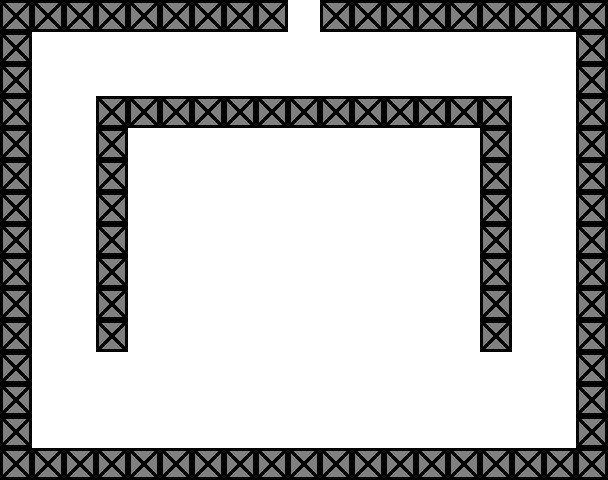
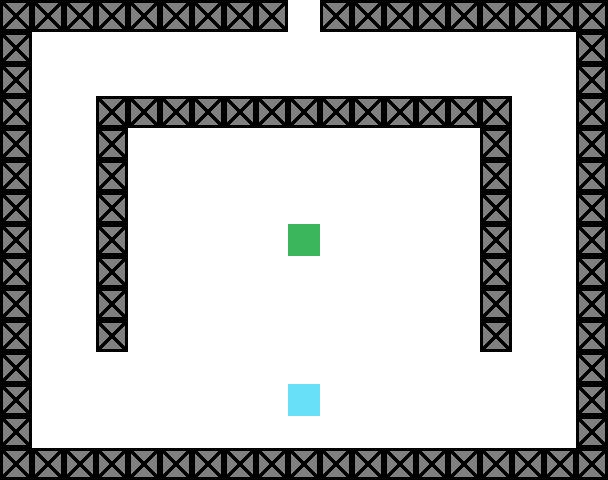
Friendly NPC complete.

Changed region(s): [[0.4688, 0.7812, 0.5312, 0.875], [0.4688, 0.4688, 0.5312, 0.5312]]

diff --git a/src/com/ectrpg/model/entity/Entity.java b/src/com/ectrpg/model/entity/Entity.java
@@ -150,8 +150,8 @@ public abstract class Entity implements Serializable, Useable, Regisiterable {
             changeView = -1;
             usingView = toward - 1;
         } else {
-            if (++changeView >= 15) {
-                changeView = -16;
+            if (++changeView >= 31) {
+                changeView = -32;
             }
             if (changeView >= 0) {
                 switch (toward) {
@@ -171,35 +171,80 @@ public abstract class Entity implements Serializable, Useable, Regisiterable {
         }
     }
 
+    public void changeTowardFromMoving() {
+        switch (wonderMoving) {
+            case GOTOWARD_UP: this.setToward(TOWARD_UP); break;
+            case GOTOWARD_DOWN: this.setToward(TOWARD_DOWN); break;
+            case GOTOWARD_LEFT: this.setToward(TOWARD_LEFT); break;
+            case GOTOWARD_RIGHT: this.setToward(TOWARD_RIGHT); break;
+            case GOTOWARD_UPLEFT:
+                if (this.getMoving() == GOTOWARD_UP) {
+                    this.setToward(TOWARD_UP);
+                } else if (this.getMoving() == GOTOWARD_LEFT) {
+                    this.setToward(TOWARD_LEFT);
+                } else if (this.getToward() != TOWARD_UP && this.getToward() != TOWARD_LEFT) {
+                    this.setToward(Resource.getRandom().nextInt(10) > 4 ? TOWARD_UP : TOWARD_LEFT);
+                }
+                break;
+            case GOTOWARD_UPRIGHT:
+                if (this.getMoving() == GOTOWARD_UP) {
+                    this.setToward(TOWARD_UP);
+                } else if (this.getMoving() == GOTOWARD_RIGHT) {
+                    this.setToward(TOWARD_RIGHT);
+                } else if (this.getToward() != TOWARD_UP && this.getToward() != TOWARD_RIGHT) {
+                    this.setToward(Resource.getRandom().nextInt(10) > 4 ? TOWARD_UP : TOWARD_RIGHT);
+                }
+                break;
+            case GOTOWARD_DOWNLEFT:
+                if (this.getMoving() == GOTOWARD_DOWN) {
+                    this.setToward(TOWARD_DOWN);
+                } else if (this.getMoving() == GOTOWARD_LEFT) {
+                    this.setToward(TOWARD_LEFT);
+                } else if (this.getToward() != TOWARD_DOWN && this.getToward() != TOWARD_LEFT) {
+                    this.setToward(Resource.getRandom().nextInt(10) > 4 ? TOWARD_DOWN : TOWARD_LEFT);
+                }
+                break;
+            case GOTOWARD_DOWNRIGHT:
+                if (this.getMoving() == GOTOWARD_DOWN) {
+                    this.setToward(TOWARD_DOWN);
+                } else if (this.getMoving() == GOTOWARD_RIGHT) {
+                    this.setToward(TOWARD_RIGHT);
+                } else if (this.getToward() != TOWARD_DOWN && this.getToward() != TOWARD_RIGHT) {
+                    this.setToward(Resource.getRandom().nextInt(10) > 4 ? TOWARD_DOWN : TOWARD_RIGHT);
+                }
+                break;
+        }
+    }
+
     public void move() {
         switch (moving) {
             case GOTOWARD_UP:
-                location.setY(location.getY() - 0.0625F);
+                location.setY(location.getY() - 0.03125F);
                 break;
             case GOTOWARD_DOWN:
-                location.setY(location.getY() + 0.0625F);
+                location.setY(location.getY() + 0.03125F);
                 break;
             case GOTOWARD_LEFT:
-                location.setX(location.getX() - 0.0625F);
+                location.setX(location.getX() - 0.03125F);
                 break;
             case GOTOWARD_RIGHT:
-                location.setX(location.getX() + 0.0625F);
+                location.setX(location.getX() + 0.03125F);
                 break;
             case GOTOWARD_UPLEFT:
-                location.setX(location.getX() - 0.0625F);
-                location.setY(location.getY() - 0.0625F);
+                location.setX(location.getX() - 0.03125F);
+                location.setY(location.getY() - 0.03125F);
                 break;
             case GOTOWARD_UPRIGHT:
-                location.setX(location.getX() + 0.0625F);
-                location.setY(location.getY() - 0.0625F);
+                location.setX(location.getX() + 0.03125F);
+                location.setY(location.getY() - 0.03125F);
                 break;
             case GOTOWARD_DOWNLEFT:
-                location.setX(location.getX() - 0.0625F);
-                location.setY(location.getY() + 0.0625F);
+                location.setX(location.getX() - 0.03125F);
+                location.setY(location.getY() + 0.03125F);
                 break;
             case GOTOWARD_DOWNRIGHT:
-                location.setX(location.getX() + 0.0625F);
-                location.setY(location.getY() + 0.0625F);
+                location.setX(location.getX() + 0.03125F);
+                location.setY(location.getY() + 0.03125F);
                 break;
         }
     }
@@ -403,6 +448,7 @@ public abstract class Entity implements Serializable, Useable, Regisiterable {
     }
 
     private LocationPair<Integer> getSideBlockForEntity(int side, int nextside) {
+        //TODO
         switch (side) {
             case SIDE_UP:
                 return new LocationPair<>((int) (location.getX() + nextside * 0.9375F), (int) (location.getY() - 1F));
@@ -509,6 +555,17 @@ public abstract class Entity implements Serializable, Useable, Regisiterable {
 
     public void onRefresh() {
         this.action();
+        refreshMove();
+        if (this.isPlayer()) {
+            refreshMove();
+        }
+    }
+
+    public boolean isLastMovingSucceed() {
+        return lastMovingSucceed;
+    }
+
+    private void refreshMove() {
         for (int i = (int)speed; i > 0; i--) {
             tryMove();
             this.changeViewFromMoving();
@@ -519,10 +576,6 @@ public abstract class Entity implements Serializable, Useable, Regisiterable {
             tryMove();
             this.changeViewFromMoving();
         }
-    }
-
-    public boolean isLastMovingSucceed() {
-        return lastMovingSucceed;
     }
 
     private void tryMove() {

diff --git a/src/com/ectrpg/main/maker/ProgressMaker.java b/src/com/ectrpg/main/maker/ProgressMaker.java
@@ -6,6 +6,7 @@ import com.ectrpg.db.Localization;
 import com.ectrpg.event.EventManager;
 import com.ectrpg.model.LocationPair;
 import com.ectrpg.model.entity.Entity;
+import com.ectrpg.model.entity.FriendlyNPC;
 import com.ectrpg.model.fight.buff.SpeedBuff;
 import com.ectrpg.model.map.item.Item;
 import com.ectrpg.model.mission.Progress;
@@ -27,28 +28,38 @@ public final class ProgressMaker {
     public static void main(String[] args) {
         // walk a block use 32 gameticks
 
+
         /*
         int progressId = -1;
         Map<Integer, Set<Item>> progressItems = new HashMap<>();
         Set<Item> map000item = new HashSet<>();
-        map000item.add(new Door("TestDoor", new LocationPair<>(9,0), new Pair<>(1, new LocationPair<>(2F, 2.96875F)), Entity.TOWARD_UP));
+        map000item.add(new Door("TestDoor", new LocationPair<>(9,0), new Pair<>(1, new LocationPair<>(2F, 2.9375F)), Entity.TOWARD_UP));
         Set<Item> map001item = new HashSet<>();
-        map001item.add(new Door("TestDoor", new LocationPair<>(2,4), new Pair<>(0, new LocationPair<>(9F, 1.03125F)), Entity.TOWARD_DOWN));
+        map001item.add(new Door("TestDoor", new LocationPair<>(2,4), new Pair<>(0, new LocationPair<>(9F, 1.0625F)), Entity.TOWARD_DOWN));
+        map001item.add(new Door("TestDoor", new LocationPair<>(2,0), new Pair<>(2, new LocationPair<>(9F, 12.9375F)), Entity.TOWARD_UP));
+        Set<Item> map002item = new HashSet<>();
+        map002item.add(new Door("TestDoor", new LocationPair<>(9,14), new Pair<>(1, new LocationPair<>(2F, 1.0625F)), Entity.TOWARD_DOWN));
         progressItems.put(0, map000item);
         progressItems.put(1, map001item);
+        progressItems.put(2, map002item);
         Map<Integer, Set<Entity>> progressEntities = new HashMap<>();
         boolean withDefaultProgress = true;
         */
 
 
-
+        ///*
         int progressId = 1;
         Map<Integer, Set<Entity>> progressEntities = new HashMap<>();
         Set<Entity> map000entity = new HashSet<>();
-        map000entity.add(new Entity(new LocationPair<>(9.5F, 12.5F), Entity.TOWARD_RIGHT, "TestEntity") {
+        map000entity.add(new Entity(new LocationPair<>(9.5F, 12.5F), Entity.TOWARD_RIGHT, "Cirno") {
             int useRefresh = 10;
-            int activeTime = 40;
+            int activeTime = 80;
             boolean acting = true;
+
+            @Override
+            public void onRegisiter() {
+                this.setMovingWay(MOVING_FASTER);
+            }
 
             @Override
             public void onUnRegisiter() {
@@ -67,8 +78,8 @@ public final class ProgressMaker {
                     }
                 }
                 if (isLastMovingSucceed()) {
-                    if (++activeTime >= 80) {
-                        activeTime = -80;
+                    if (++activeTime >= 160) {
+                        activeTime = -160;
                     }
                 }
                 if (useRefresh > 0) {
@@ -119,7 +130,7 @@ public final class ProgressMaker {
                         this.setMoving(moving);
                         this.setWonderMoving(wonderMoving);
                         this.setToward(toward);
-                        Resource.getPlayer().addBuff(new SpeedBuff(1200, 1.5F));
+                        Resource.getPlayer().addBuff(new SpeedBuff(600, 1.5F));
                         System.out.println("Changed the state of Keyboard.");
                         useRefresh = 40;
                     });
@@ -137,9 +148,13 @@ public final class ProgressMaker {
                 useRefresh = 10;
             }
         });
+        Set<Entity> map002entity = new HashSet<>();
+        map002entity.add(new FriendlyNPC(new LocationPair<>(9.5F, 7.5F), Entity.TOWARD_DOWN, "Sanae", 4));
         progressEntities.put(0, map000entity);
+        progressEntities.put(2, map002entity);
         Map<Integer, Set<Item>> progressItems = new HashMap<>();
         boolean withDefaultProgress = true;
+        //*/
 
 
 

diff --git a/src/com/ectrpg/main/maker/MapMaker.java b/src/com/ectrpg/main/maker/MapMaker.java
@@ -13,6 +13,7 @@ public final class MapMaker {
     private MapMaker() {
     }
     public static void main(String[] args) {
+        ///*
         int mapId = 0;
         int width = 19;
         int brightness = -1;
@@ -36,12 +37,13 @@ public final class MapMaker {
         //ArrayList<Item> item = new ArrayList<>();
         //item.add(new Door("TestDoor", new LocationPair<>(9, 0) ,new Pair<>(1, new LocationPair<>(2.0F,3.0F)), Entity.TOWARD_UP));
         LocationPair<Integer> viewShifting = new LocationPair<>(0,0);
+        //*/
         /*
         int mapId = 1;
         int width = 5;
         int brightness = -1;
         boolean[] mapBlock = {
-                true ,true ,true ,true ,true ,
+                true ,true ,false,true ,true ,
                 true ,false,false,false,true ,
                 true ,false,false,false,true ,
                 true ,false,false,false,true ,
@@ -49,6 +51,29 @@ public final class MapMaker {
         };
         //ArrayList<Item> item = new ArrayList<>();
         //item.add(new Door("TestDoor", new LocationPair<>(2, 4), new Pair<>(0, new LocationPair<>(9.0F,1.0F)), Entity.TOWARD_DOWN));
+        LocationPair<Integer> viewShifting = new LocationPair<>(0,0);
+        */
+        /*
+        int mapId = 2;
+        int width = 19;
+        int brightness = -1;
+        boolean[] mapBlock = {
+                true ,true ,true ,true ,true ,true ,true ,true ,true ,true ,true ,true ,true ,true ,true ,true ,true ,true ,true ,
+                true ,false,false,false,false,false,false,false,false,false,false,false,false,false,false,false,false,false,true ,
+                true ,false,false,false,false,false,false,false,false,false,false,false,false,false,false,false,false,false,true ,
+                true ,false,false,false,false,false,false,false,false,false,false,false,false,false,false,false,false,false,true ,
+                true ,false,false,false,false,false,false,false,false,false,false,false,false,false,false,false,false,false,true ,
+                true ,false,false,false,false,false,false,false,false,false,false,false,false,false,false,false,false,false,true ,
+                true ,false,false,false,false,false,false,false,false,false,false,false,false,false,false,false,false,false,true ,
+                true ,false,false,false,false,false,false,false,false,false,false,false,false,false,false,false,false,false,true ,
+                true ,false,false,false,false,false,false,false,false,false,false,false,false,false,false,false,false,false,true ,
+                true ,false,false,false,false,false,false,false,false,false,false,false,false,false,false,false,false,false,true ,
+                true ,false,false,false,false,false,false,false,false,false,false,false,false,false,false,false,false,false,true ,
+                true ,false,false,false,false,false,false,false,false,false,false,false,false,false,false,false,false,false,true ,
+                true ,false,false,false,false,false,false,false,false,false,false,false,false,false,false,false,false,false,true ,
+                true ,false,false,false,false,false,false,false,false,false,false,false,false,false,false,false,false,false,true ,
+                true ,true ,true ,true ,true ,true ,true ,true ,true ,false,true ,true ,true ,true ,true ,true ,true ,true ,true ,
+        };
         LocationPair<Integer> viewShifting = new LocationPair<>(0,0);
         */
 

diff --git a/src/com/ectrpg/model/entity/FriendlyNPC.java b/src/com/ectrpg/model/entity/FriendlyNPC.java
@@ -1,22 +1,40 @@
 package com.ectrpg.model.entity;
 
+import com.ectrpg.controller.service.Resource;
 import com.ectrpg.model.LocationPair;
 
-public abstract class FriendlyNPC extends Entity {
+public class FriendlyNPC extends Entity {
     private LocationPair<Float> spawn;
     private int liveArea;
+    private float keepTime = 0F;
 
     public FriendlyNPC(LocationPair<Float> location, int toward, String name, int liveArea) {
-        super(location, toward, "???");
+        super(location, toward, name);
         this.spawn = location;
         this.liveArea = liveArea;
     }
 
     @Override
     public void action() {
-        //TODO Friendly NPC Active
+        if (Resource.getRandom().nextInt(100) < 110.0f - keepTime) {
+            keepTime += .2f;
+        } else {
+            if (this.getMoving() != NOTGO) {
+                this.setWonderMoving(NOTGO);
+            }
+            else {
+                this.setWonderMoving(Resource.getRandom().nextInt(8) + 1);
+                this.changeTowardFromMoving();
+            }
+            keepTime = .0f;
+        }
     }
 
+    @Override
+    public void onUse() {
+        // TODO: 2018/7/15 0015 Player greet 
+    }
+    
     @Override
     public void onRegisiter() {
 

diff --git a/src/com/ectrpg/controller/service/Resource.java b/src/com/ectrpg/controller/service/Resource.java
@@ -27,6 +27,7 @@ import java.io.ObjectInputStream;
 import java.util.ArrayList;
 import java.util.HashMap;
 import java.util.List;
+import java.util.Random;
 
 public final class Resource {
     public static final FObject COLORLESS = new ShapeObject(ColorResource.COLORLESS, new FRectangle(1, 1));
@@ -45,6 +46,7 @@ public final class Resource {
     private static final List<ArrayList<ImageResource>> itemsResources = new ArrayList<>();
     private static final List<Integer> itemsProgress = new ArrayList<>();
     private static final List<SideEffect> misc = new ArrayList<>();
+    private static final Random random = new Random();
     private static FObject mapBlockImage;
     private static FObject mapBackground;
     private static FObject uponImage;
@@ -67,6 +69,7 @@ public final class Resource {
                 regisiterReadyEntities(nextProgress);
             }
         });
+        random.setSeed(System.currentTimeMillis());
     }
 
     private Resource() {
@@ -100,6 +103,10 @@ public final class Resource {
         for (SideEffect m : misc) {
             m.invoke();
         }
+    }
+
+    public static Random getRandom() {
+        return random;
     }
 
     private static void progressReplacer() {

diff --git a/src/com/ectrpg/main/Main.java b/src/com/ectrpg/main/Main.java
@@ -4,7 +4,7 @@ import com.ectrpg.view.GameFrame;
 
 public final class Main {
     public static void main(String[] args) {
-        GameFrame.InitGame(120, "微软雅黑", "en_US");
+        GameFrame.InitGame(60, "微软雅黑", "en_US");
     }
     private Main() {
     }
